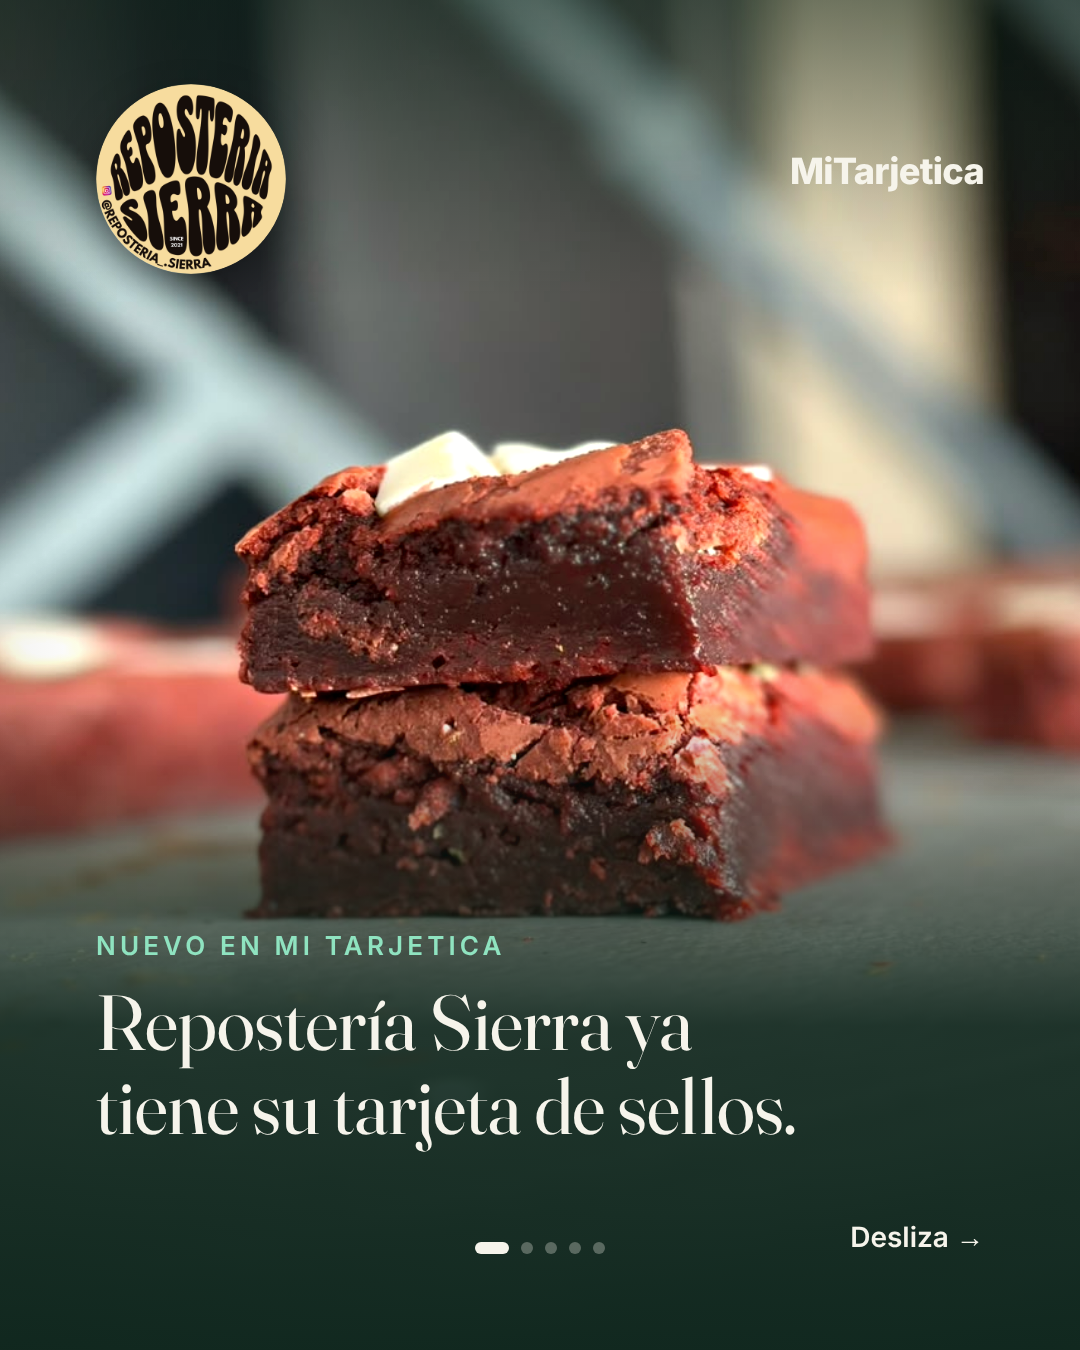
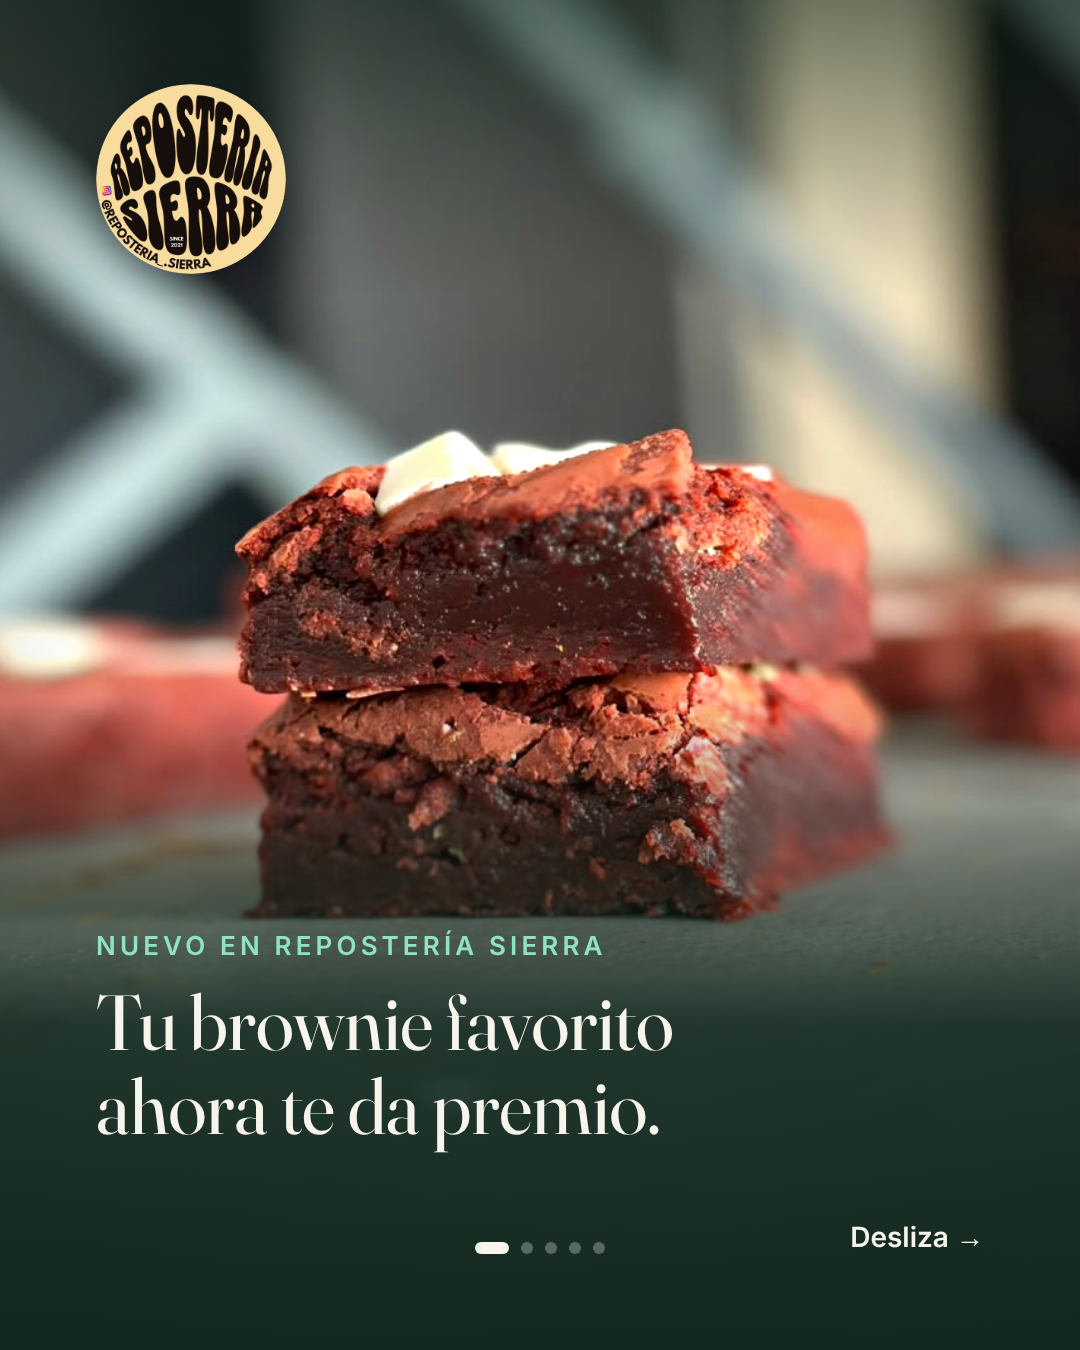
Post Repostería Sierra: enfoque a sus clientes (antojo, cómo sumar sellos y CTA para comprar)
Claude-Session: https://claude.ai/code/session_01NppBQeaMzGkiMEcfsUkZi3

Changed region(s): [[0.0917, 0.6844, 0.7333, 0.8711], [0.7333, 0.0933, 0.9167, 0.1556]]

diff --git a/post-reposteria-sierra/src/Slides.tsx b/post-reposteria-sierra/src/Slides.tsx
@@ -2,7 +2,6 @@ import React from "react";
 import { AbsoluteFill } from "remotion";
 import { M, lightA, palette } from "./brand";
 import { Arch } from "./components/Arch";
-import { BrandLogo } from "./components/BrandLogo";
 import { Dots } from "./components/Dots";
 import { Phone, StatusBar } from "./components/Phone";
 import { Photo } from "./components/Photo";
@@ -19,11 +18,11 @@ const Title: React.FC<{ text: string; color: string; size?: number; top: number;
   <div style={{ position: "absolute", left: M, right: M, top, ...display, fontWeight: 400, fontSize: size, lineHeight: 1.08, color, textWrap: "balance", ...style }}>{text}</div>
 );
 
-/** Fila superior: logo de Mi Tarjetica a la izquierda y la cuenta del negocio a la derecha. */
+/** Fila superior: etiqueta y cuenta de Sierra (el post lo publica el negocio para sus clientes). */
 const TopBar: React.FC<{ dark: boolean }> = ({ dark }) => (
-  <div style={{ position: "absolute", left: M, right: M, top: 84, height: 48, display: "flex", alignItems: "center", justifyContent: "space-between" }}>
-    <BrandLogo variant={dark ? "light" : "color"} height={40} color={dark ? palette.light : palette.brand} />
-    <span style={{ fontFamily: sans, fontSize: 26, fontWeight: 600, color: dark ? palette.onGreenSecondary : palette.inkSecondary }}>{business.handle}</span>
+  <div style={{ position: "absolute", left: M, right: M, top: 78, height: 60, display: "flex", alignItems: "center", gap: 16 }}>
+    <SierraLogo size={60} shadow={false} />
+    <span style={{ fontFamily: sans, fontSize: 28, fontWeight: 600, color: dark ? palette.light : palette.ink }}>{business.handle}</span>
   </div>
 );
 
@@ -34,9 +33,6 @@ export const Cover: React.FC = () => (
     <div style={{ position: "absolute", inset: 0, background: "linear-gradient(180deg, rgba(11,35,26,0.55) 0%, rgba(11,35,26,0) 22%, rgba(11,35,26,0) 52%, rgba(11,35,26,0.88) 76%, rgba(11,35,26,0.96) 100%)" }} />
     <div style={{ position: "absolute", left: M, top: 84 }}>
       <SierraLogo size={190} />
-    </div>
-    <div style={{ position: "absolute", right: M, top: 150 }}>
-      <BrandLogo variant="light" height={42} color={palette.light} />
     </div>
     <div style={{ position: "absolute", left: M, right: M, top: 930, fontFamily: sans, fontSize: 26, fontWeight: 600, letterSpacing: "0.16em", color: palette.onGreenAccent }}>{slides.cover.eyebrow}</div>
     <Title text={slides.cover.title} color={palette.light} size={78} top={980} />
@@ -49,41 +45,49 @@ export const Cover: React.FC = () => (
 export const Brownies: React.FC = () => (
   <AbsoluteFill style={{ backgroundColor: palette.latte, fontFamily: sans }}>
     <TopBar dark={false} />
-    <Title text={slides.brownies.title} color={palette.brand} size={80} top={190} />
+    <Title text={slides.brownies.title} color={palette.brand} size={72} top={180} />
     {[
       { src: "oreo.jpg", x: M, pos: "50% 62%", zoom: 1.25 },
       { src: "galleta.jpg", x: W - M - 430, pos: "45% 66%", zoom: 1.15 },
     ].map((p, i) => (
-      <div key={p.src} style={{ position: "absolute", left: p.x, top: 330 + (i ? 70 : 0) }}>
+      <div key={p.src} style={{ position: "absolute", left: p.x, top: 370 + (i ? 60 : 0) }}>
         <Arch w={430} h={640} border={`2px solid ${palette.caramel}`} shadow={`0 30px 70px ${palette.shadow}`}>
           <Photo src={p.src} w={430} h={640} position={p.pos} zoom={p.zoom} />
         </Arch>
       </div>
     ))}
-    <div style={{ position: "absolute", left: M, right: M, top: 1078, fontSize: 34, lineHeight: 1.35, color: palette.ink, textWrap: "balance" }}>{slides.brownies.text}</div>
+    <div style={{ position: "absolute", left: M, right: M, top: 1110, fontSize: 34, lineHeight: 1.35, color: palette.ink, textWrap: "balance" }}>{slides.brownies.text}</div>
     <Dots total={TOTAL} active={1} color={palette.brand} y={H - 92} />
   </AbsoluteFill>
 );
 
-/** 3 · La tarjeta de Sierra en el celular. */
+/** 3 · Cómo se usa: 3 pasos + la tarjeta de Sierra en el celular. */
 export const CardSlide: React.FC = () => (
   <AbsoluteFill style={{ background: greenBg, fontFamily: sans }}>
     <TopBar dark />
     <Title text={slides.card.title} color={palette.light} top={180} />
-    <div style={{ position: "absolute", left: (W - 740) / 2, top: 390 }}>
-      <Arch w={740} h={730} fill={lightA(0.07)} border="2px solid rgba(200, 150, 62, 0.75)">
-        <div style={{ position: "absolute", left: 125, top: 80 }}>
-          <Phone w={490} h={980} screen={palette.latte}>
-            <StatusBar color={palette.ink} size={21} />
-            <div style={{ position: "absolute", left: 30, top: 96, fontWeight: 600, fontSize: 36, color: palette.ink }}>Tarjetas</div>
-            <div style={{ position: "absolute", left: 20, top: 158 }}>
-              <SierraCard w={414} />
+    <div style={{ position: "absolute", left: M, top: 470, width: 420, display: "flex", flexDirection: "column", gap: 54 }}>
+      {slides.card.steps.map((st, i) => (
+        <div key={st} style={{ display: "flex", alignItems: "center", gap: 24 }}>
+          <span style={{ width: 72, height: 72, borderRadius: 36, background: palette.onGreenAccent, color: palette.greenDeep, fontWeight: 800, fontSize: 36, display: "flex", alignItems: "center", justifyContent: "center", flexShrink: 0 }}>{i + 1}</span>
+          <span style={{ fontSize: 38, fontWeight: 600, lineHeight: 1.2, color: palette.light }}>{st}</span>
+        </div>
+      ))}
+    </div>
+    <div style={{ position: "absolute", right: M - 20, top: 400 }}>
+      <Arch w={470} h={720} fill={lightA(0.07)} border="2px solid rgba(200, 150, 62, 0.75)">
+        <div style={{ position: "absolute", left: 45, top: 80 }}>
+          <Phone w={380} h={800} screen={palette.latte}>
+            <StatusBar color={palette.ink} size={17} />
+            <div style={{ position: "absolute", left: 24, top: 78, fontWeight: 600, fontSize: 28, color: palette.ink }}>Tarjetas</div>
+            <div style={{ position: "absolute", left: 16, top: 124 }}>
+              <SierraCard w={322} />
             </div>
           </Phone>
         </div>
       </Arch>
     </div>
-    <div style={{ position: "absolute", left: M, right: M, top: 1150, fontSize: 28, color: palette.onGreenSecondary, textAlign: "center" }}>{slides.card.note}</div>
+    <div style={{ position: "absolute", left: M, right: M, top: 1160, fontSize: 28, color: palette.onGreenSecondary }}>{slides.card.note}</div>
     <Dots total={TOTAL} active={2} color={palette.light} y={H - 92} />
   </AbsoluteFill>
 );
@@ -110,7 +114,7 @@ export const Table: React.FC = () => (
   </AbsoluteFill>
 );
 
-/** 5 · CTA para otros negocios. */
+/** 5 · CTA para el cliente: pide hoy y empieza a sumar. */
 export const Cta: React.FC = () => (
   <AbsoluteFill style={{ background: greenBg, fontFamily: sans }}>
     <TopBar dark />
@@ -122,15 +126,13 @@ export const Cta: React.FC = () => (
     <div style={{ position: "absolute", left: M + 300, top: 520 }}>
       <SierraLogo size={150} />
     </div>
-    <Title text={slides.cta.title} color={palette.light} size={78} top={700} />
+    <Title text={slides.cta.title} color={palette.light} size={96} top={700} />
+    <div style={{ position: "absolute", left: M, right: M, top: 830, fontSize: 46, fontWeight: 600, color: palette.onGreenAccent, lineHeight: 1.2 }}>{slides.cta.cta}</div>
     <div style={{ position: "absolute", left: M, top: 912, width: 140, height: 2, background: palette.caramel }} />
-    <div style={{ position: "absolute", left: M, right: M, top: 950, fontSize: 44, fontWeight: 600, color: palette.onGreenAccent }}>{slides.cta.cta}</div>
-    <div style={{ position: "absolute", left: M, top: 1048, display: "flex", alignItems: "center", gap: 24 }}>
-      <BrandLogo variant="light" height={50} color={palette.light} />
-      <span style={{ width: 2, height: 34, background: lightA(0.35) }} />
-      <span style={{ fontSize: 34, fontWeight: 600, color: palette.light }}>{slides.cta.url}</span>
+    <div style={{ position: "absolute", left: M, right: M + 40, top: 950, fontSize: 36, lineHeight: 1.35, color: palette.light, textWrap: "balance" }}>{slides.cta.how}</div>
+    <div style={{ position: "absolute", left: M, top: 1110, display: "flex", alignItems: "center", gap: 16, fontSize: 25, color: palette.onGreenSecondary }}>
+      {slides.cta.sub}
     </div>
-    <div style={{ position: "absolute", left: M, top: 1128, fontSize: 25, color: palette.onGreenSecondary }}>{slides.cta.sub}</div>
     <Dots total={TOTAL} active={4} color={palette.light} y={H - 92} />
   </AbsoluteFill>
 );

diff --git a/post-reposteria-sierra/src/post.ts b/post-reposteria-sierra/src/post.ts
@@ -1,13 +1,13 @@
 /**
- * Copy del post "Repostería Sierra ya usa Mi Tarjetica" (solo datos).
- * Cambia aquí textos, la cuenta de Instagram, el premio o los sellos de ejemplo.
+ * Copy del post (solo datos), dirigido a los CLIENTES de Repostería Sierra: que se les antoje,
+ * compren y guarden su tarjeta de sellos. Cambia aquí textos, cuenta, premio o sellos.
  */
 export const business = {
   name: "Repostería Sierra",
   handle: "@reposteria_.sierra",
   since: "2021",
-  /** Tarjeta de ejemplo (confírmala con el negocio antes de publicar). */
-  customer: "Laura Gómez",
+  /** Tarjeta de ejemplo (confirma el premio real con el negocio antes de publicar). */
+  customer: "Tu nombre",
   reward: "Un brownie gratis",
   stamps: 7,
   total: 10,
@@ -15,34 +15,42 @@ export const business = {
 
 export const slides = {
   cover: {
-    eyebrow: "NUEVO EN MI TARJETICA",
-    title: "Repostería Sierra ya tiene su tarjeta de sellos.",
+    eyebrow: "NUEVO EN REPOSTERÍA SIERRA",
+    title: "Tu brownie favorito ahora te da premio.",
     swipe: "Desliza →",
   },
   brownies: {
-    title: "Cada brownie, un sello.",
-    text: "Sus clientes suman un sello con cada compra, directo en el celular.",
+    title: "Red velvet, con Oreo o con galleta.",
+    text: "Elige tu favorito: cada brownie que compres suma un sello.",
   },
   card: {
-    title: "Su tarjeta vive en el celular de sus clientes.",
-    note: "Apple Wallet y Google Wallet · Sin apps · Sin cartón",
+    title: "Tu tarjeta de sellos, siempre en tu celular.",
+    steps: ["Pide tu brownie", "Escanea el QR al pagar", "Guárdala y suma sellos"],
+    note: "Apple Wallet o Google Wallet · Gratis · Sin apps",
   },
   table: {
-    title: "Al décimo sello, el premio llega solo.",
-    text: "Y sus clientes tienen una razón más para volver.",
+    title: "Al décimo sello, el brownie va por nuestra cuenta.",
+    text: "Sin cartón que se pierda: tus sellos quedan guardados.",
   },
   cta: {
-    title: "¿Tienes una repostería o panadería?",
-    cta: "Crea tu tarjeta gratis en 5 minutos.",
-    url: "mitarjetica.com",
-    sub: "Gratis hasta 20 clientes · Sin tarjeta de crédito",
+    title: "¿Se te antojó?",
+    cta: "Pide hoy y empieza a sumar sellos.",
+    how: `Escríbenos por DM a ${"@reposteria_.sierra"} y aparta los tuyos.`,
+    sub: "Tarjeta de sellos con Mi Tarjetica · Gratis para ti",
   },
 };
 
-export const caption = `¡Bienvenida, ${business.handle}! 🍫 Desde ${business.since} horneando brownies que enamoran, y ahora sus clientes también acumulan sellos en el celular con Mi Tarjetica: cada compra suma y, al completar la tarjeta, el premio llega solo.
+export const caption = `¡Tus brownies favoritos ahora tienen premio! 🍫✨
 
-¿Tienes una repostería o panadería? Crea tu tarjeta gratis en 5 minutos 👉 mitarjetica.com
+En ${business.name} cada brownie que compras suma un sello en tu celular. Al completar ${business.total} sellos, el siguiente va por nuestra cuenta 🎁
 
-#reposteria #brownies #emprendimiento #fidelizaciondeclientes #hechoencolombia #mitarjetica`;
+¿Cómo empiezo?
+1⃣ Pide tu brownie (red velvet, con Oreo o con galleta)
+2⃣ Escanea el QR al pagar
+3⃣ Guarda tu tarjeta en Apple Wallet o Google Wallet
+
+Sin apps y sin cartón que se pierda. Escríbenos por DM y aparta los tuyos 👉 ${business.handle}
+
+#brownies #reposteria #redvelvet #antojos #postres #emprendimientocolombiano`;
 
 export const TOTAL = 5;

diff --git a/post-reposteria-sierra/README.md b/post-reposteria-sierra/README.md
@@ -1,13 +1,14 @@
-# Post "Repostería Sierra ya usa Mi Tarjetica"
+# Post "Tu brownie favorito ahora te da premio" (Repostería Sierra × Mi Tarjetica)
 
-Carrusel de Instagram de 5 láminas (1080×1350) hecho con las fotos reales del negocio
-(`public/photos/`) y su etiqueta (`public/sierra-logo.png`, extraída de ETIQUETA_NEGOCIO.pdf).
+Carrusel de Instagram de 5 láminas (1080×1350) para que lo publique Repostería Sierra: le habla
+a SUS clientes para que se les antoje, compren y guarden su tarjeta de sellos. Usa las fotos
+reales del negocio (`public/photos/`) y su etiqueta (`public/sierra-logo.png`, de ETIQUETA_NEGOCIO.pdf).
 
-1. Portada: red velvet a sangre + etiqueta de Sierra + "Repostería Sierra ya tiene su tarjeta de sellos."
-2. "Cada brownie, un sello." con dos fotos en arco.
-3. La tarjeta de sellos de Sierra (mantequilla y cacao, como su etiqueta) en el celular.
-4. La mesa llena de brownies + "Al décimo sello, el premio llega solo."
-5. CTA para otras reposterías: "Crea tu tarjeta gratis en 5 minutos."
+1. Portada: red velvet a sangre + "Tu brownie favorito ahora te da premio."
+2. "Red velvet, con Oreo o con galleta." con dos fotos en arco: cada brownie suma un sello.
+3. Cómo se usa en 3 pasos + la tarjeta de sellos de Sierra en el celular.
+4. La mesa llena de brownies + "Al décimo sello, el brownie va por nuestra cuenta."
+5. "¿Se te antojó?": pide hoy, escríbenos por DM y aparta los tuyos.
 
 Las fotos se editan con código (`components/Photo.tsx`): recorte 4:5, un poco más de contraste,
 saturación y calidez, y viñeta suave.
@@ -20,7 +21,7 @@ node scripts/render-post.mjs     # → out/post/reposteria-sierra/01.png … 05.
 Sin internet: `REMOTION_LOCAL_FONTS=1`. Navegador propio: `REMOTION_BROWSER=/ruta/a/chrome`.
 
 ## Qué editar
-- Textos, cuenta de Instagram, cliente, premio y sellos de ejemplo: `src/post.ts`.
+- Textos, cuenta de Instagram, premio y sellos de ejemplo: `src/post.ts`.
   **El premio "Un brownie gratis" es de ejemplo**: cámbialo por el real de Sierra antes de publicar.
 - Colores: `src/brand.ts`. Fotos: reemplaza los archivos de `public/photos/` con el mismo nombre.
 - Logo de Mi Tarjetica: si existen `public/logo.svg` / `public/logo-light.svg` se usan; si no,

diff --git a/PUBLICACIONES-MI-TARJETICA/LEEME.md b/PUBLICACIONES-MI-TARJETICA/LEEME.md
@@ -12,7 +12,7 @@ Colores de marca: verde `#0E5244`, tinta `#1B1613`, papel `#F6F2EA`, menta `#69D
 | `05-posts-sueltos/` | 6 posts de una imagen + `TEXTOS-POSTS-E-HISTORIAS.md` | PNG 1080×1350 | Feed de Instagram / Facebook |
 | `07-carrusel-cafe-no-pagaste/` | Carrusel "SE BUSCA: Café Tres Granos" (bait-and-switch para cafeterías): 9 láminas + `caption.txt` | PNG 1080×1350 | Feed de Instagram (carrusel) |
 | `08-historias-precios/` | Historias para la destacada "Precios": 8 historias (planes Gratis, Emprendedor, Profesional, Empresa, mensual vs. anual, a la medida y cierre) + `portada.png` de la destacada | PNG 1080×1920 | Historias de Instagram → destacada "Precios" (en la 8, pon el sticker de enlace en el espacio libre de abajo) |
-| `09-post-reposteria-sierra/` | Post "Repostería Sierra ya usa Mi Tarjetica" con sus fotos editadas: 5 láminas + `caption.txt` (etiqueta a @reposteria_.sierra) | PNG 1080×1350 | Feed de Instagram (carrusel) |
+| `09-post-reposteria-sierra/` | Post para que Repostería Sierra lo publique a sus clientes ("Tu brownie favorito ahora te da premio"): fotos editadas, 5 láminas + `caption.txt` | PNG 1080×1350 | Feed de Instagram (carrusel) |
 | `06-carruseles-editoriales/` | 4 carruseles editoriales (verde #145B44 / blanco): cuánto vale un cliente, premios que funcionan, cartoncito vs. Mi Tarjetica, cómo funciona — cada uno con `caption.txt` | PNG 1080×1350 | Feed de Instagram (carrusel) |
 
 **En total:** 11 videos, 71 imágenes de carrusel (10 carruseles), 14 historias y 6 posts, más 8 historias de precios con su portada de destacada.
